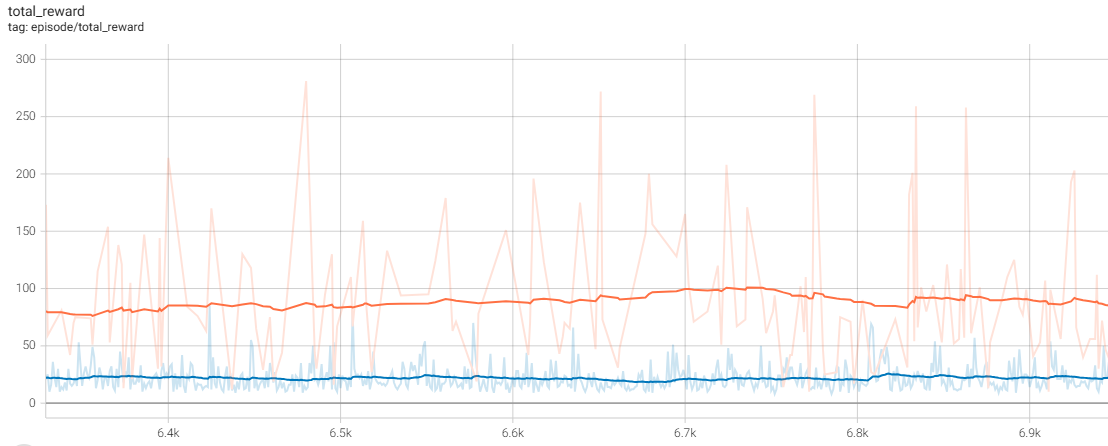
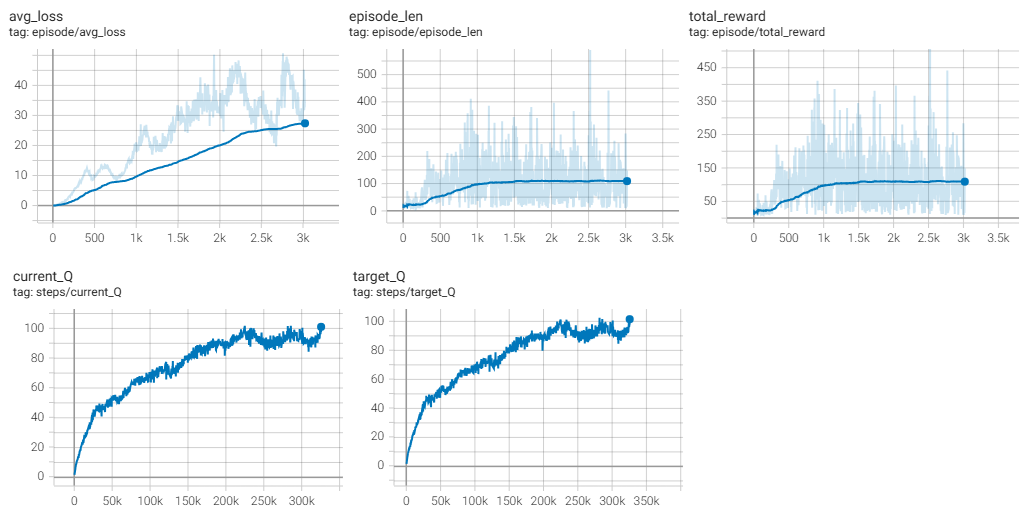
x

diff --git a/强化学习入门.md b/强化学习入门.md
@@ -7403,11 +7403,11 @@ if __name__ == '__main__':
 
 一句话：学习到了一定的策略，比随机策略有明显提升，但相比低维结构化的状态输入的收敛后的DQN，差距太大
 
-如下图红色线条所示：6千个回合后，每个回合的total_reward均值在80~100之间，但是波动很大，低的50以下，高的有270多的。
+如下图红色线条所示：1.5千个回合后，每个回合的total_reward均值在100左右，但是波动很大，低的50以下，高的有270多的。
 
 使用最高total_reward的checkpoint进行evaluate，10个回合下来平均分在72分。
 
-**蓝色线条是均匀随机策略的表现，平均total_reward在20左右，高的能到80左右。**
+相比较：**均匀随机策略的表现，平均total_reward在20左右，最高的能到80左右。**
 
 
 
@@ -9441,7 +9441,12 @@ https://github.com/vwxyzjn/cleanrl
 https://docs.cleanrl.dev/rl-algorithms/dqn/
 
 # 一个RL相关的库，还没有来得及仔细看
-https://stable-baselines3.readthedocs.io/en/master/
+https://stable-baselines3.readthedocs.io/en/master
+
+# 好文
+https://arxiv.org/abs/2304.01315
+https://araffin.github.io/post/rliable/
+https://openlab-flowers.inria.fr/t/how-many-random-seeds-should-i-use-statistical-power-analysis-in-deep-reinforcement-learning-experiments/457
 ```
 
 
